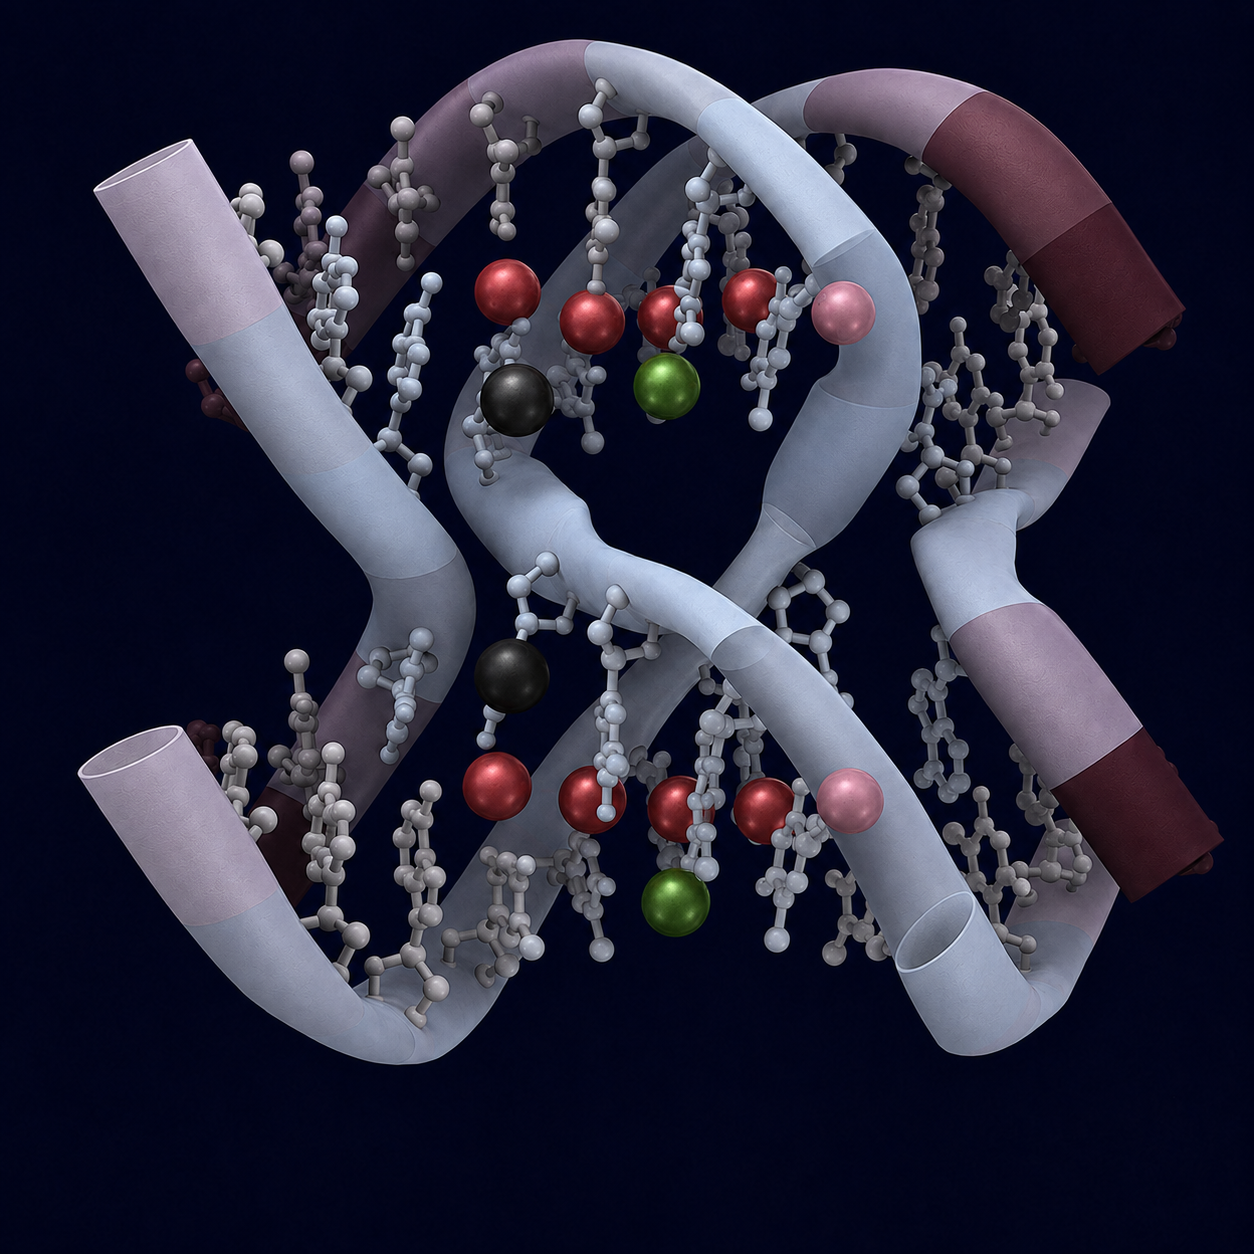
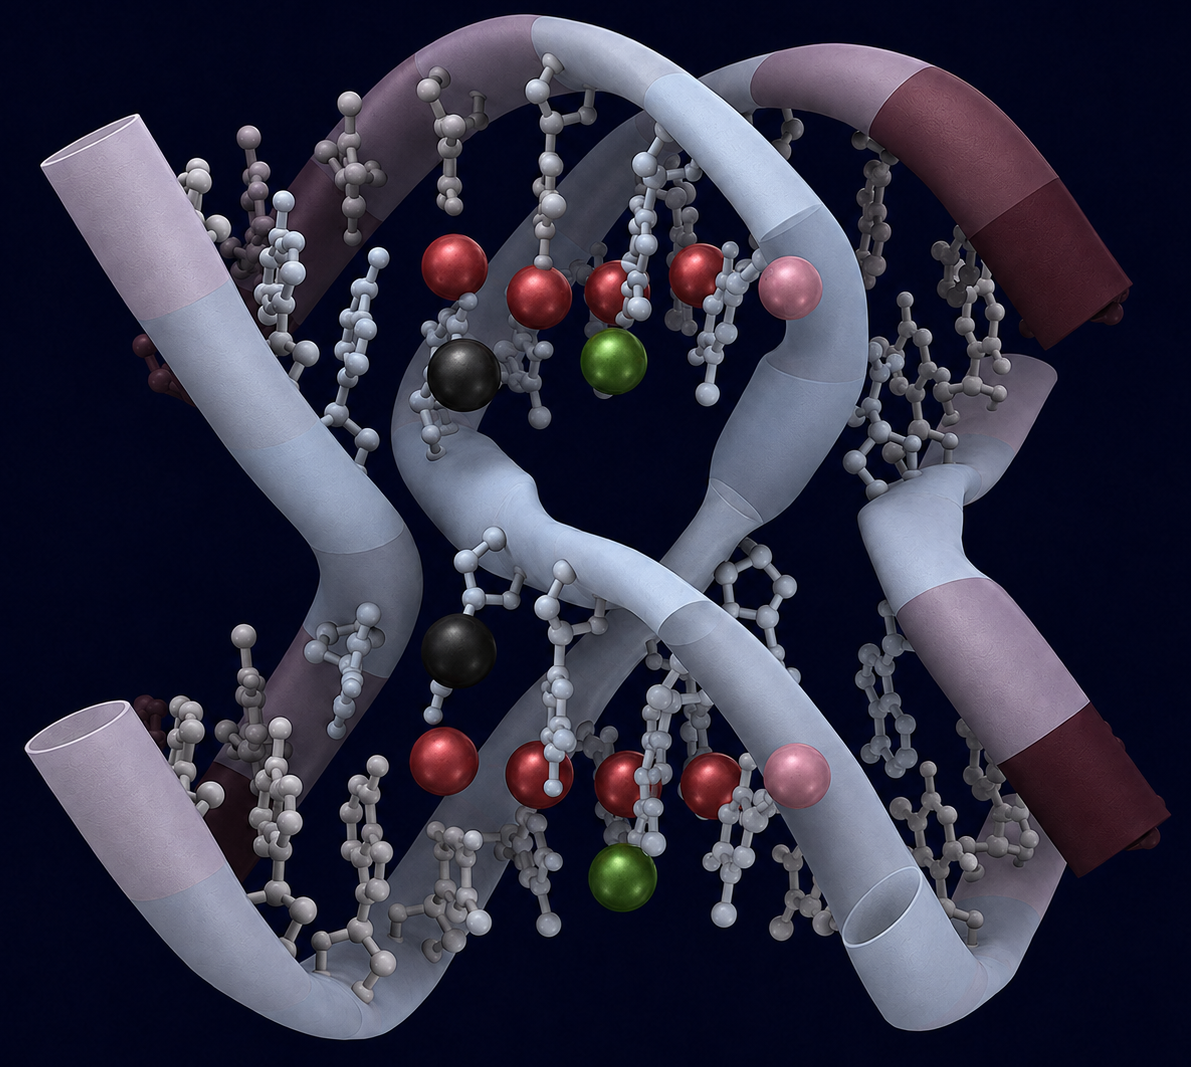
finished first panel 00

diff --git a/docs/index.html b/docs/index.html
@@ -194,18 +194,19 @@ OUR RESEARCH
 <div class="research-panel">
 <div class="research-panel-text">
 <p class="panel-number">
-01
+00
 </p>
 <section id="a-metal-design-language" class="level2">
 <h2 class="anchored" data-anchor-id="a-metal-design-language">A Metal Design Language</h2>
-<p>We develop a chemical language in which metal coordination encodes structure, function, and information in nucleic acids.</p>
+<p>The overarching theme of the Lab is to develop a bioinorganic programming language in which topological self-assembly of nucleic acids is carried out using metal base pairs. By replacing select hydrogen bonds with metal coordination bonds, we aim to expand the intrinsic functionality of nucleic acids to interface with light, electrons, and biochemical inputs.</p>
+<p>Using high-throughput X-ray crystallography, iterative design, and collaboration with chemists and physicists, we aim to make molecules, such as the 3D tile shown here, possible in the near future.</p>
 <p><a href="research/metal-design-language/index.qmd" class="panel-link">Explore this research →</a></p>
 </section>
 </div>
 <div class="research-panel-image">
 <p><img src="assets/images/research/metal-design-language.jpg" class="img-fluid"></p>
 <p class="panel-caption">
-Metal-mediated nucleic-acid architecture. Add image caption and citation here.
+Metal-mediated nucleic-acid tile. As a goal, we show a double-crossover motif with a nearly-full metalation at the center of the double helix.
 </p>
 </div>
 </div>

diff --git a/assets/css/styles.css b/assets/css/styles.css
@@ -343,6 +343,7 @@ main#quarto-document-content {
 
 .research-panel-text p {
   color: var(--muted);
+  text-align: justify;
 }
 
 .research-panel-image img {
@@ -355,6 +356,7 @@ main#quarto-document-content {
   font-size: 0.78rem;
   line-height: 1.4;
   color: var(--muted);
+  text-align: justify;
 }
 
 .panel-link {

diff --git a/docs/assets/css/styles.css b/docs/assets/css/styles.css
@@ -343,6 +343,7 @@ main#quarto-document-content {
 
 .research-panel-text p {
   color: var(--muted);
+  text-align: justify;
 }
 
 .research-panel-image img {
@@ -355,6 +356,7 @@ main#quarto-document-content {
   font-size: 0.78rem;
   line-height: 1.4;
   color: var(--muted);
+  text-align: justify;
 }
 
 .panel-link {
